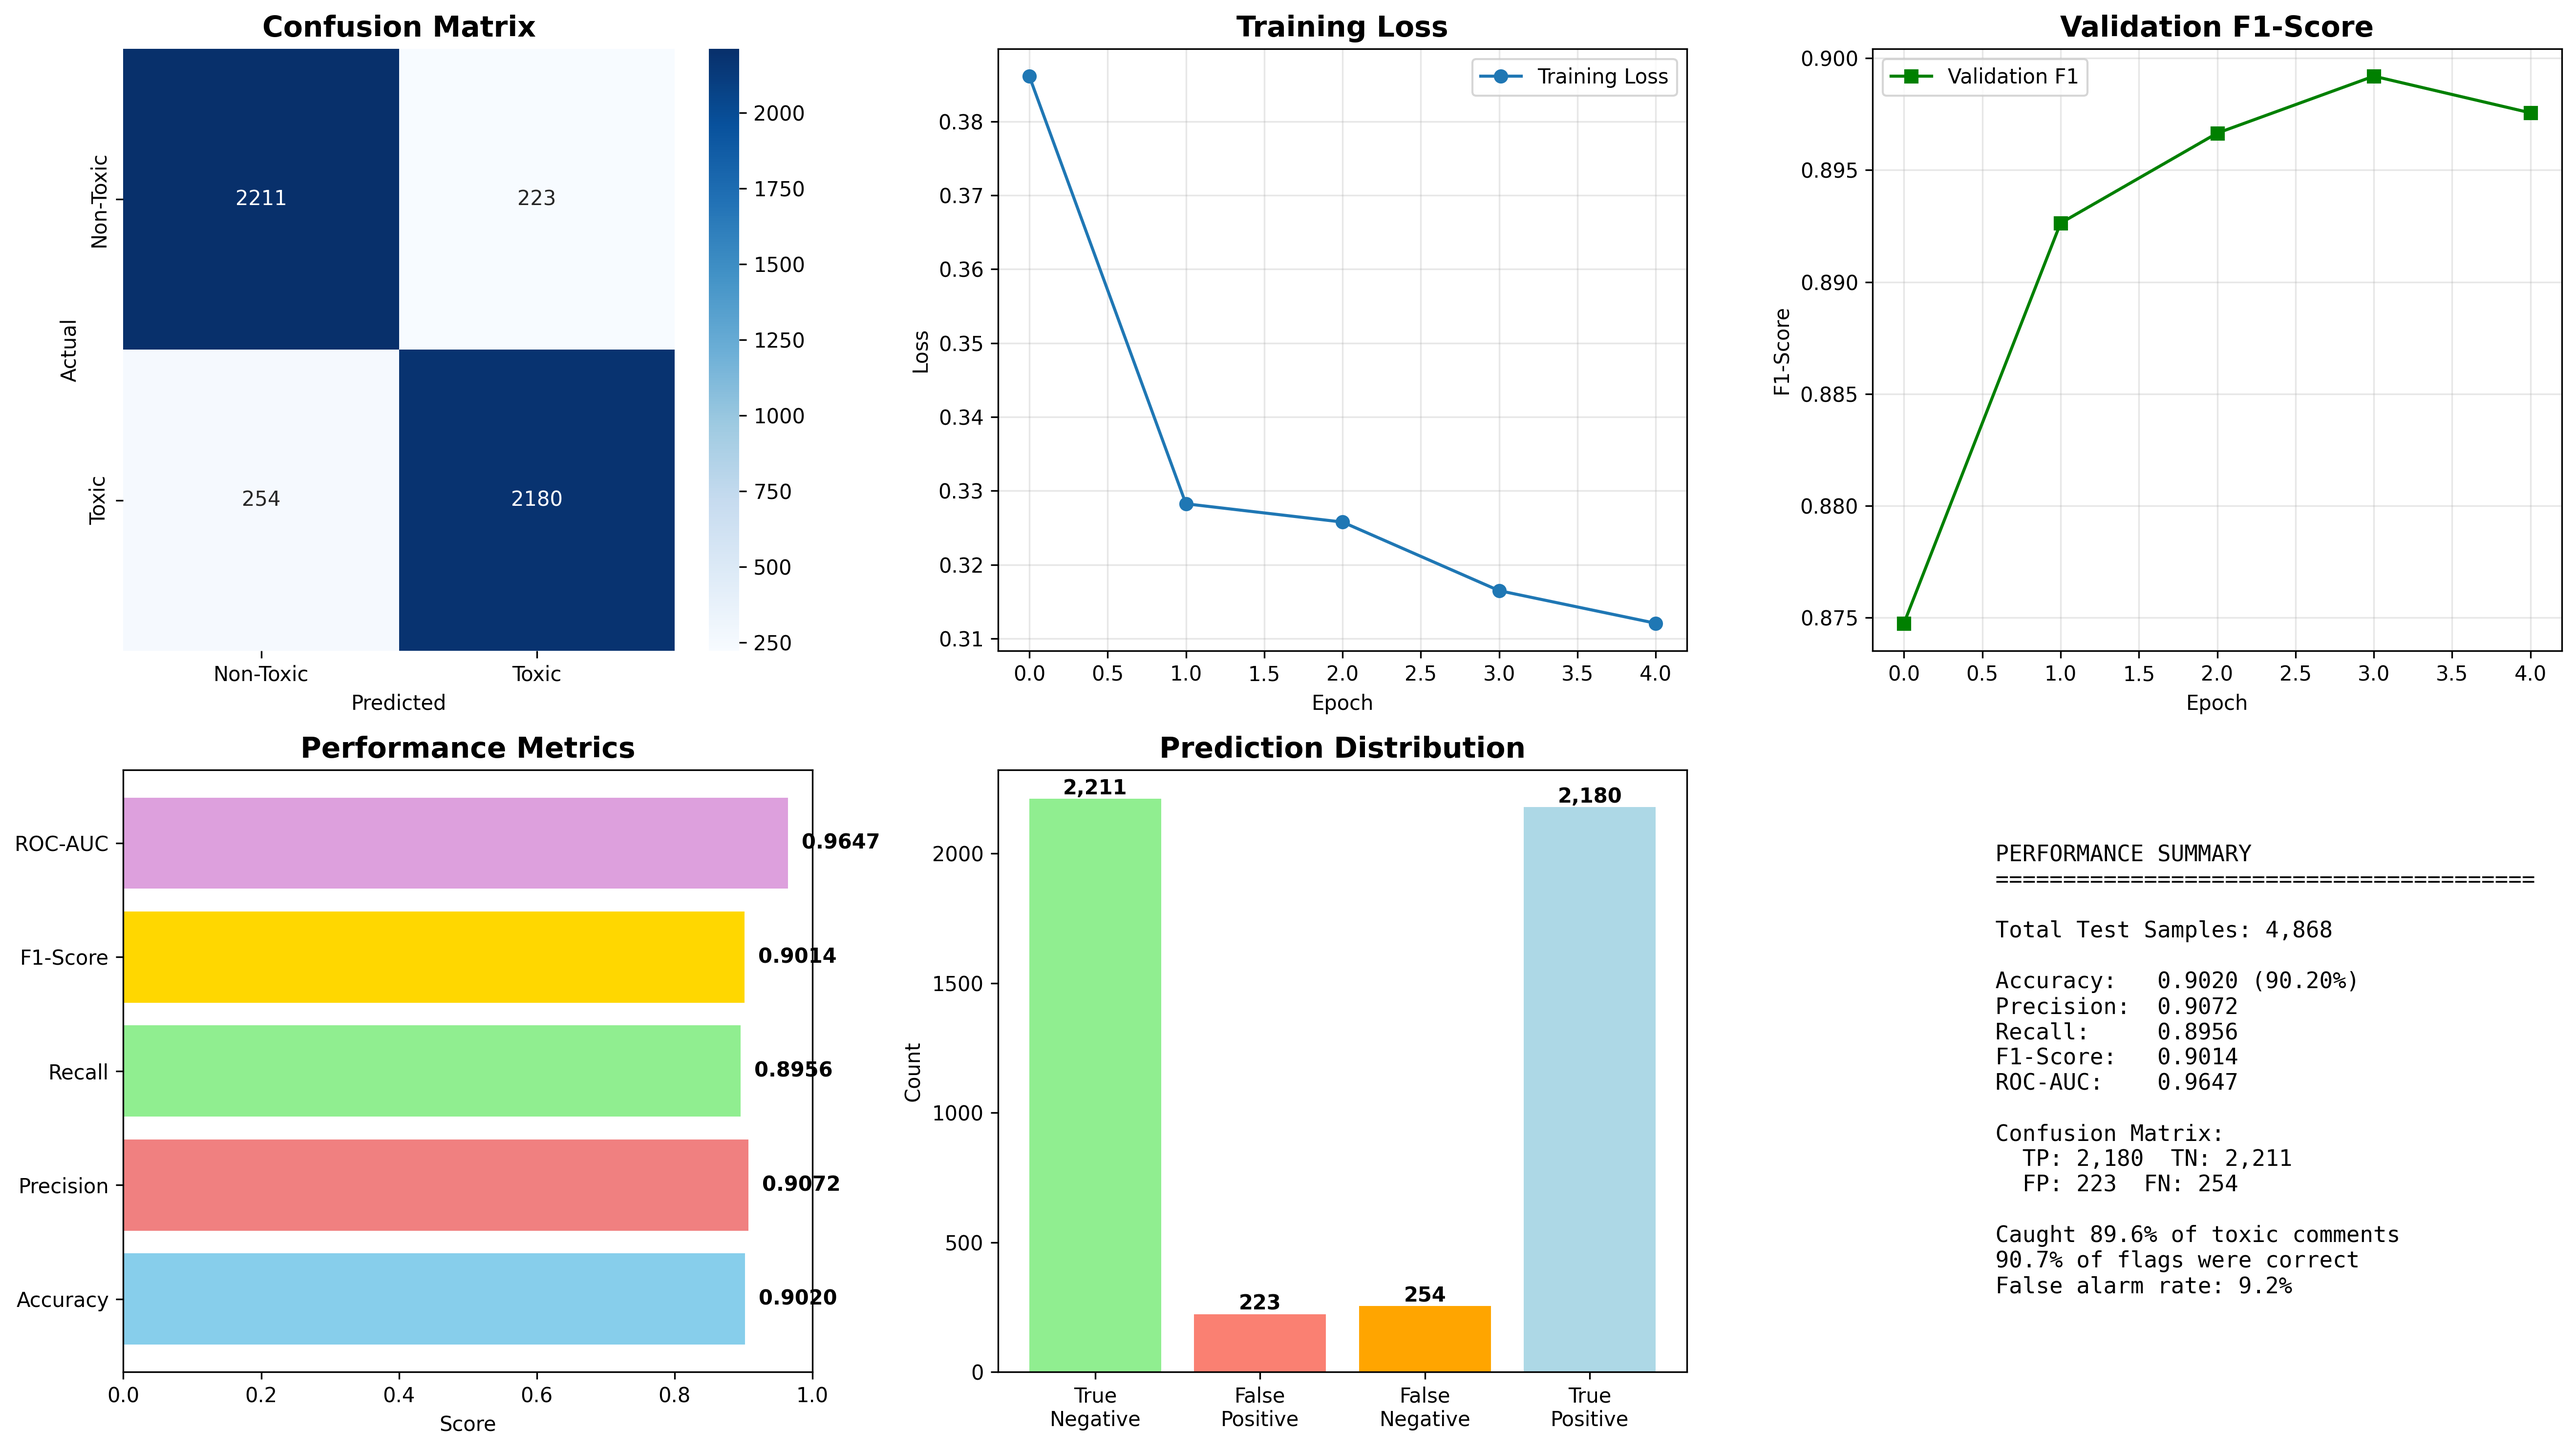
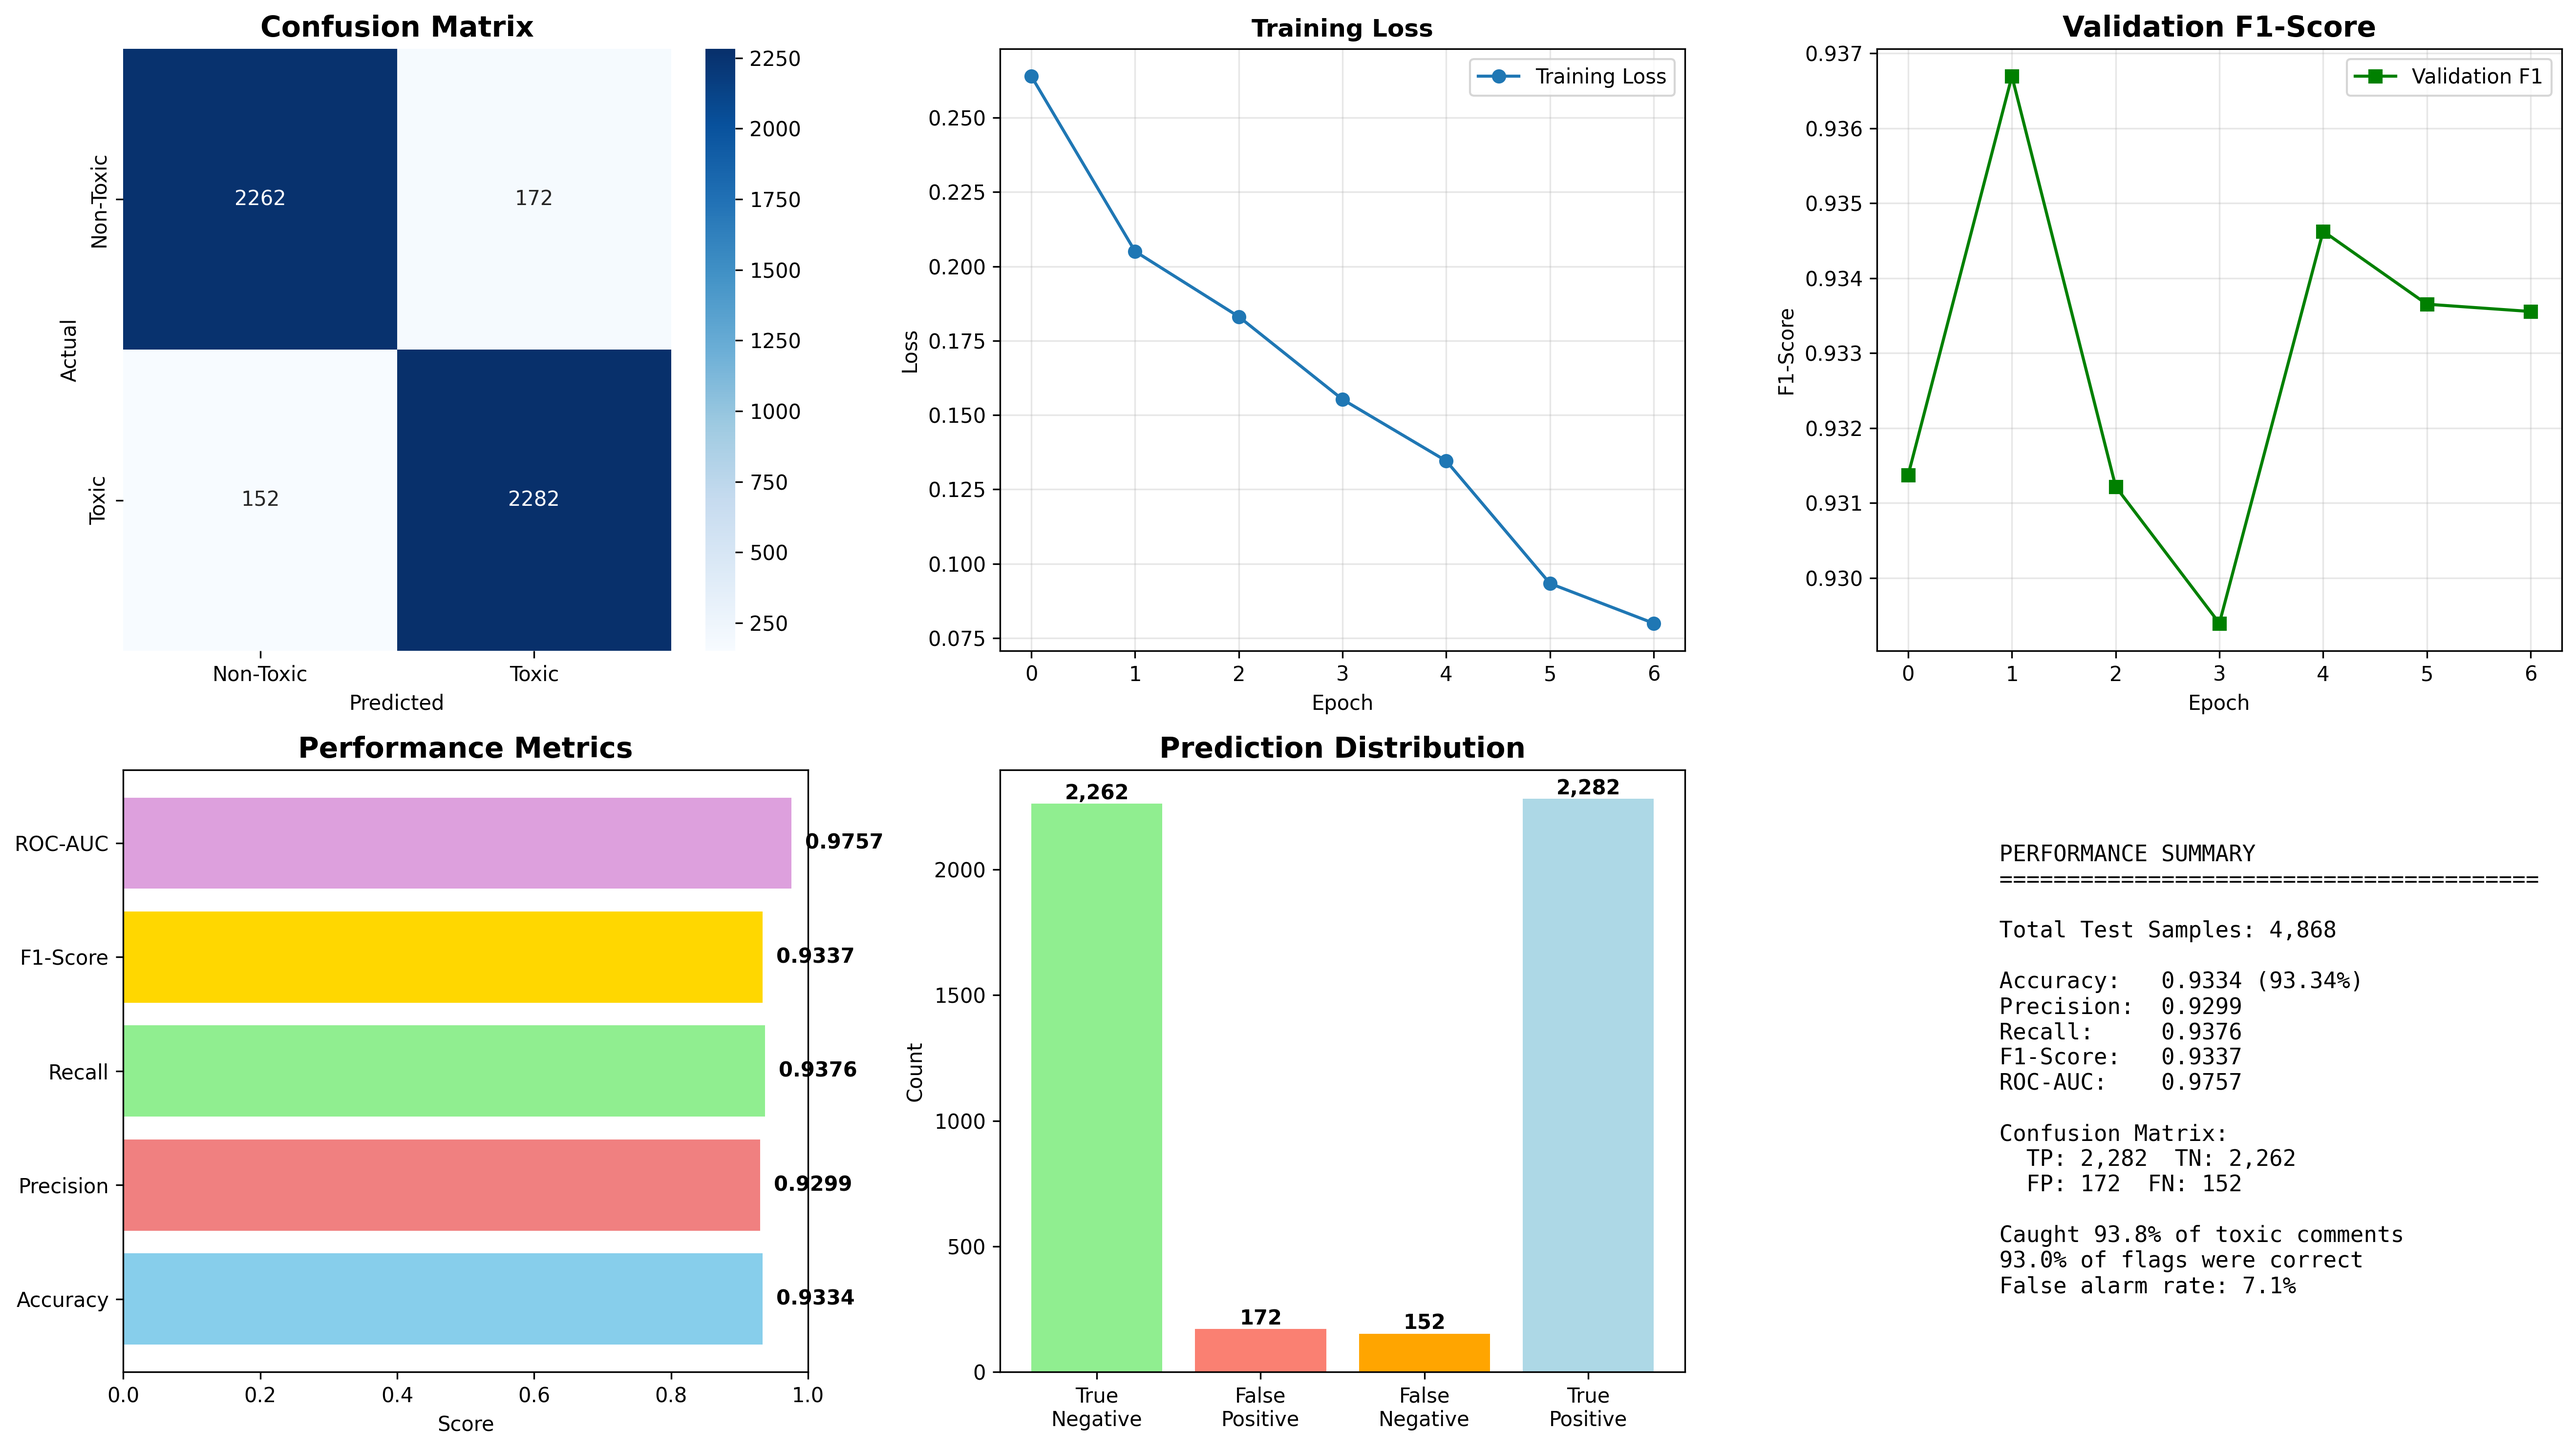
update files

diff --git a/bert/model.py b/bert/model.py
@@ -1,17 +1,25 @@
-#model.py
 import torch
 import torch.nn as nn
 from transformers import DistilBertModel
 
 
 class ToxicCommentNN(nn.Module):
-    def __init__(self, bert_model, hidden_sizes=[512, 256], dropout=0.3):
+    def __init__(self, bert_model, hidden_sizes=[128, 64], dropout=0.5):
         super(ToxicCommentNN, self).__init__()
         
         self.bert = bert_model
-        for param in self.bert.parameters():
+        
+        # Freeze embedding layer
+        for param in self.bert.embeddings.parameters():
             param.requires_grad = False
         
+        # Freeze first 4 transformer layers, unfreeze last 2
+        for param in self.bert.transformer.layer[:4].parameters():
+            param.requires_grad = False
+        for param in self.bert.transformer.layer[4:].parameters():
+            param.requires_grad = True
+        
+        # Smaller, more efficient classifier
         layers = []
         prev_size = 768
         
@@ -34,7 +42,7 @@ class ToxicCommentNN(nn.Module):
 
 
 class ToxicClassifier:
-    def __init__(self, device, hidden_sizes=[512, 256]):
+    def __init__(self, device, hidden_sizes=[128, 64]):
         self.device = device
         from transformers import DistilBertTokenizer
         self.tokenizer = DistilBertTokenizer.from_pretrained('distilbert-base-uncased')
@@ -42,7 +50,7 @@ class ToxicClassifier:
         self.model = ToxicCommentNN(bert_model, hidden_sizes).to(device)
         self.training_history = {'train_loss': [], 'val_acc': [], 'val_f1': []}
         
-    def train_model(self, train_loader, val_loader, epochs=5, lr=2e-5):
+    def train_model(self, train_loader, val_loader, epochs=15, lr=0.001, bert_lr=2e-5):
         import torch.nn as nn
         import torch.optim as optim
         import numpy as np
@@ -50,14 +58,23 @@ class ToxicClassifier:
         from sklearn.metrics import accuracy_score, precision_recall_fscore_support
         
         criterion = nn.CrossEntropyLoss()
-        optimizer = optim.AdamW(self.model.parameters(), lr=lr, weight_decay=0.01)
         
-        print(f"\nTraining for {epochs} epochs on {self.device}")
-        print(f"Learning rate: {lr}")
+        # Differential learning rates: lower for BERT, higher for classifier
+        optimizer = optim.AdamW([
+            {'params': self.model.bert.parameters(), 'lr': bert_lr, 'weight_decay': 0.01},
+            {'params': self.model.classifier.parameters(), 'lr': lr, 'weight_decay': 1e-5}
+        ])
+        
+        scheduler = optim.lr_scheduler.ReduceLROnPlateau(optimizer, mode='max', 
+                                                         factor=0.5, patience=2, verbose=True)
+        
+        print(f"\nTraining optimized BERT for {epochs} epochs on {self.device}")
+        print(f"Classifier LR: {lr}, BERT LR: {bert_lr}")
+        print(f"Trainable parameters: {sum(p.numel() for p in self.model.parameters() if p.requires_grad):,}")
         
         best_val_f1 = 0
         patience_counter = 0
-        patience = 3
+        patience = 5
         
         for epoch in range(epochs):
             self.model.train()
@@ -114,6 +131,8 @@ class ToxicClassifier:
             self.training_history['train_loss'].append(avg_train_loss)
             self.training_history['val_acc'].append(val_acc)
             self.training_history['val_f1'].append(val_f1)
+            
+            scheduler.step(val_f1)
             
             print(f"Epoch {epoch+1}/{epochs} - Loss: {avg_train_loss:.4f}, Train Acc: {train_acc:.2f}%, Val Acc: {val_acc:.2f}%, Val F1: {val_f1:.4f}")
             

diff --git a/cnn/utils.py b/cnn/utils.py
@@ -18,7 +18,7 @@ def count_parameters(model):
     return trainable_params
 
 
-def generate_visualizations(y_test, y_pred, y_probs, training_history, save_path='results/'):
+def generate_visualizations(y_test, y_pred, y_probs, training_history, save_path='results/', model=None):
     os.makedirs(save_path, exist_ok=True)
     
     fig = plt.figure(figsize=(18, 10))
@@ -35,7 +35,12 @@ def generate_visualizations(y_test, y_pred, y_probs, training_history, save_path
     ax2 = plt.subplot(2, 3, 2)
     if training_history.get('train_loss'):
         ax2.plot(training_history['train_loss'], marker='o', label='Training Loss')
-        ax2.set_title('Training Loss', fontsize=14, fontweight='bold')
+        title_text = 'Training Loss'
+        if model is not None:
+            total_params = sum(p.numel() for p in model.parameters())
+            trainable_params = sum(p.numel() for p in model.parameters() if p.requires_grad)
+            title_text += f'\nParams: {total_params:,} (Trainable: {trainable_params:,})'
+        ax2.set_title(title_text, fontsize=12, fontweight='bold')
         ax2.set_xlabel('Epoch')
         ax2.set_ylabel('Loss')
         ax2.legend()
@@ -86,8 +91,24 @@ def generate_visualizations(y_test, y_pred, y_probs, training_history, save_path
     ax6 = plt.subplot(2, 3, 6)
     ax6.axis('off')
     
+    # Calculate model parameters if model is provided
+    param_info = ""
+    if model is not None:
+        total_params = sum(p.numel() for p in model.parameters())
+        trainable_params = sum(p.numel() for p in model.parameters() if p.requires_grad)
+        model_size = total_params * 4 / 1e6
+        
+        param_info = f"""
+    MODEL PARAMETERS
+    {'='*40}
+    Total Parameters:     {total_params:,}
+    Trainable Parameters: {trainable_params:,}
+    Model Size:           {model_size:.2f} MB
+    
+    """
+    
     summary_text = f"""
-    PERFORMANCE SUMMARY
+    {param_info}PERFORMANCE SUMMARY
     {'='*40}
     
     Total Test Samples: {len(y_test):,}

diff --git a/bert/utils.py b/bert/utils.py
@@ -17,7 +17,7 @@ def count_parameters(model):
     return trainable_params
 
 
-def generate_visualizations(y_test, y_pred, y_probs, training_history, save_path='results/'):
+def generate_visualizations(y_test, y_pred, y_probs, training_history, save_path='results/', model=None):
     os.makedirs(save_path, exist_ok=True)
     
     fig = plt.figure(figsize=(18, 10))
@@ -34,7 +34,12 @@ def generate_visualizations(y_test, y_pred, y_probs, training_history, save_path
     ax2 = plt.subplot(2, 3, 2)
     if training_history.get('train_loss'):
         ax2.plot(training_history['train_loss'], marker='o', label='Training Loss')
-        ax2.set_title('Training Loss', fontsize=14, fontweight='bold')
+        title_text = 'Training Loss'
+        if model is not None:
+            total_params = sum(p.numel() for p in model.parameters())
+            trainable_params = sum(p.numel() for p in model.parameters() if p.requires_grad)
+            title_text += f'\nParams: {total_params:,} (Trainable: {trainable_params:,})'
+        ax2.set_title(title_text, fontsize=12, fontweight='bold')
         ax2.set_xlabel('Epoch')
         ax2.set_ylabel('Loss')
         ax2.legend()
@@ -85,8 +90,23 @@ def generate_visualizations(y_test, y_pred, y_probs, training_history, save_path
     ax6 = plt.subplot(2, 3, 6)
     ax6.axis('off')
     
+    param_info = ""
+    if model is not None:
+        total_params = sum(p.numel() for p in model.parameters())
+        trainable_params = sum(p.numel() for p in model.parameters() if p.requires_grad)
+        model_size = total_params * 4 / 1e6
+        
+        param_info = f"""
+    MODEL PARAMETERS
+    {'='*40}
+    Total Parameters:     {total_params:,}
+    Trainable Parameters: {trainable_params:,}
+    Model Size:           {model_size:.2f} MB
+    
+    """
+    
     summary_text = f"""
-    PERFORMANCE SUMMARY
+    {param_info}PERFORMANCE SUMMARY
     {'='*40}
     
     Total Test Samples: {len(y_test):,}

diff --git a/cnn/model.py b/cnn/model.py
@@ -1,4 +1,3 @@
-# model.py
 import torch
 import torch.nn as nn
 import numpy as np
@@ -140,7 +139,7 @@ class ToxicClassifier:
         
         return sequence
         
-    def train_model(self, train_loader, val_loader, epochs=10, lr=0.001):
+    def train_model(self, train_loader, val_loader, epochs=15, lr=0.001):
         import torch.optim as optim
         import numpy as np
         from tqdm import tqdm

diff --git a/bert/main.py b/bert/main.py
@@ -27,8 +27,8 @@ def main():
     TRAIN_VAL_SPLIT = 0.85
     VAL_SIZE = 0.15
     BATCH_SIZE = 16
-    EPOCHS = 5
-    LEARNING_RATE = 2e-5
+    EPOCHS = 15
+    LEARNING_RATE = 0.001
     HIDDEN_SIZES = [512, 256]
     USE_FULL_DATASET = True
     MAX_LENGTH = 128

diff --git a/cnn/main.py b/cnn/main.py
@@ -20,7 +20,7 @@ def main():
     TRAIN_VAL_SPLIT = 0.85
     VAL_SIZE = 0.15
     BATCH_SIZE = 64
-    EPOCHS = 10
+    EPOCHS = 15
     LEARNING_RATE = 0.001
     USE_FULL_DATASET = True
     MAX_LENGTH = 200

diff --git a/README.md b/README.md
@@ -55,3 +55,8 @@ The script will:
 - **Classifier**: 2-layer neural network (512 → 256 → 2)
 - **Features**: BERT embeddings (768 dimensions)
 - **Context Understanding**: Full sentence context with attention mechanism
+
+Run the demo:
+```bash
+python app.py
+```
